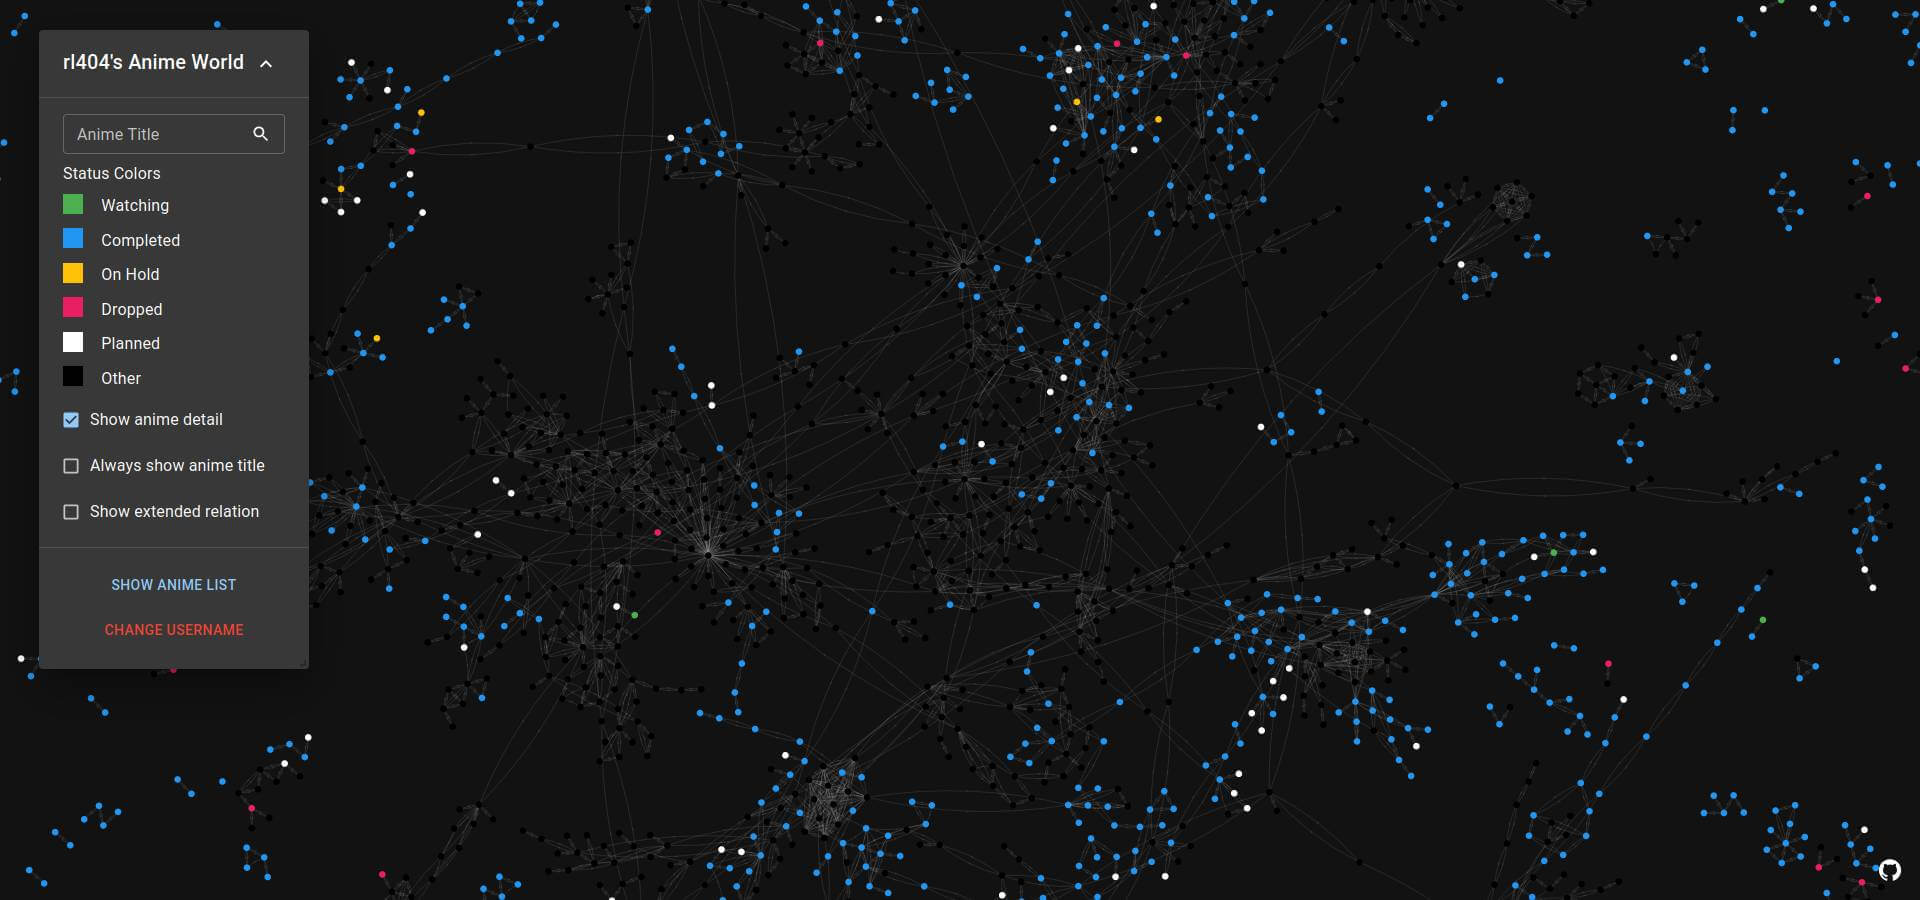
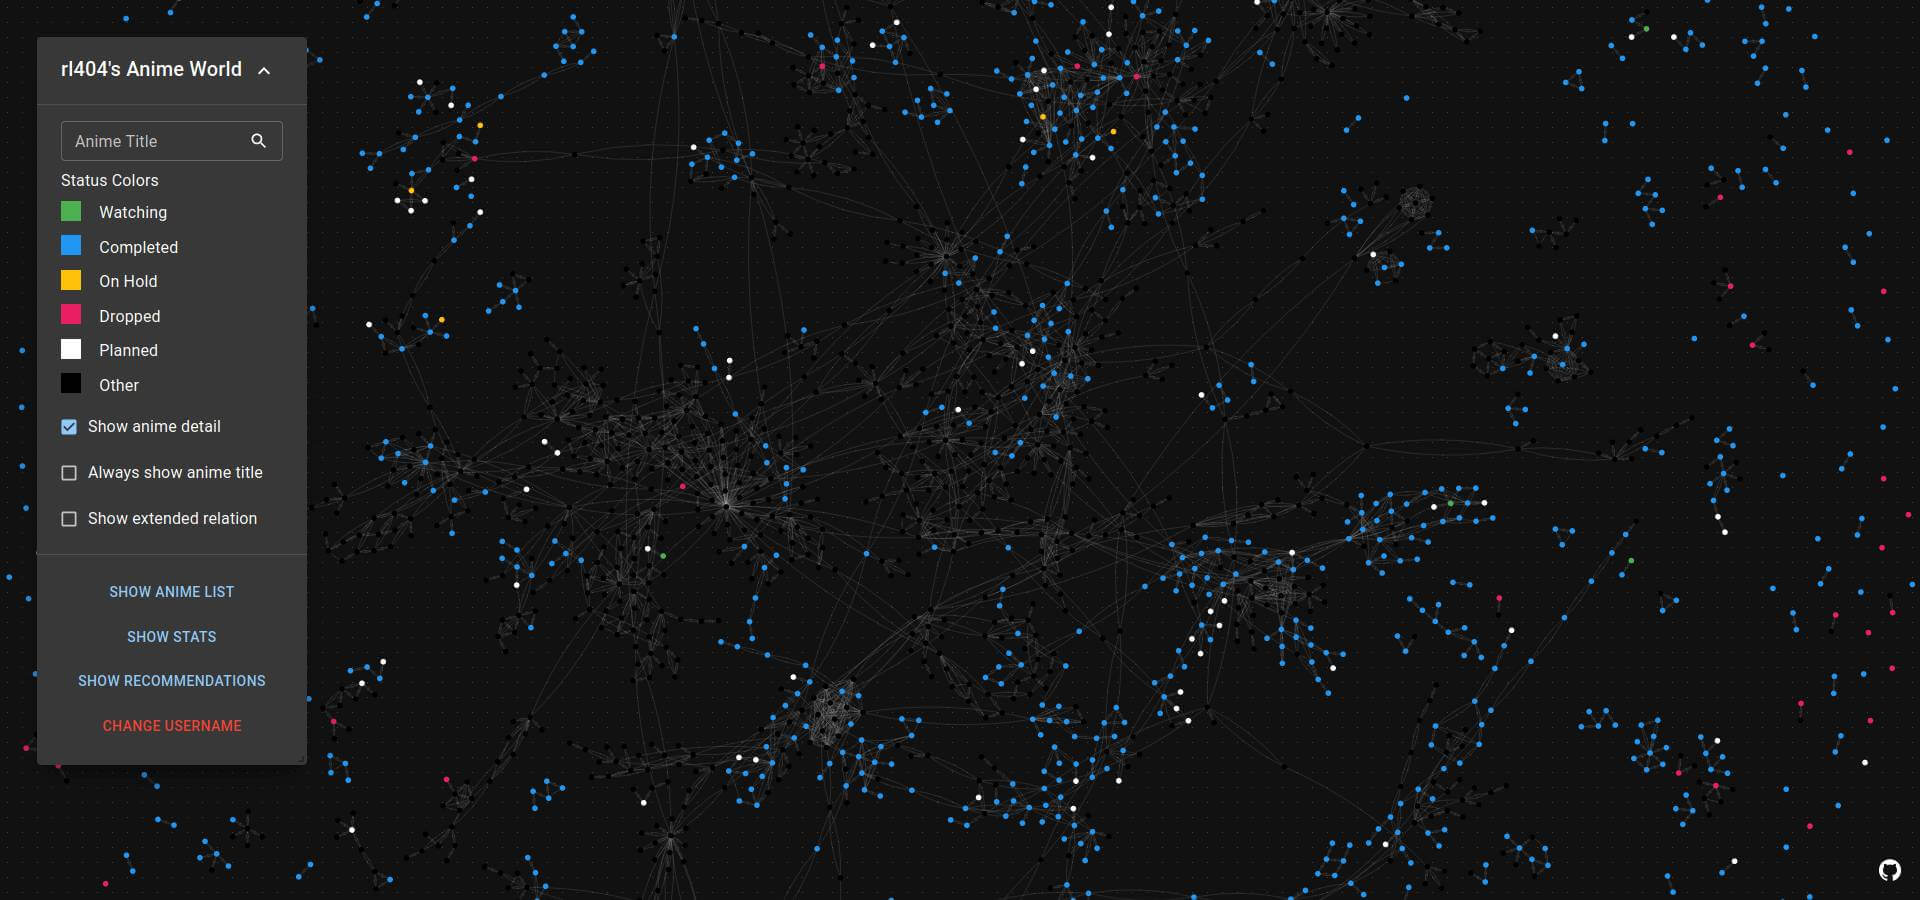
docs: update readme & gallery

diff --git a/README.md b/README.md
@@ -34,6 +34,23 @@ Powered by my [akatsuki](https://github.com/rl404/akatsuki) as backend.
     - Type.
     - Your status.
     - Your score.
+- Show your anime stats.
+  - Total anime count.
+    - By status.
+    - By type.
+    - By source.
+    - By year and score.
+    - By season.
+    - By episode count and score.
+    - By episode duration and score.
+- Show your anime recommendations with score filter.
+  - Sequel or prequel.
+  - Side story or alternative story.
+  - On hold.
+  - Planned and already aired.
+  - Summary and Full story.
+  - Other relation.
+  - Mismatched episode count.
 
 _More will be coming soon..._
 

diff --git a/gallery.md b/gallery.md
@@ -35,3 +35,12 @@
 ## Anime List
 
 ![anime list](https://raw.githubusercontent.com/rl404/sekai/master/public/images/list.jpg)
+
+## Anime Stats
+
+![anime stats](https://raw.githubusercontent.com/rl404/sekai/master/public/images/stats.jpg)
+
+## Anime Recommendation
+
+![anime recommendation1](https://raw.githubusercontent.com/rl404/sekai/master/public/images/recommendation1.jpg)
+![anime recommendation2](https://raw.githubusercontent.com/rl404/sekai/master/public/images/recommendation2.jpg)
